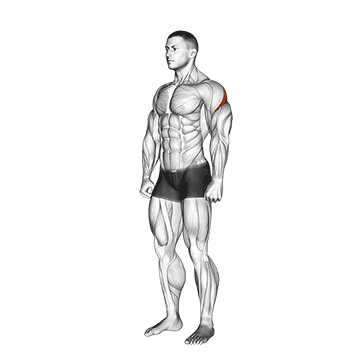
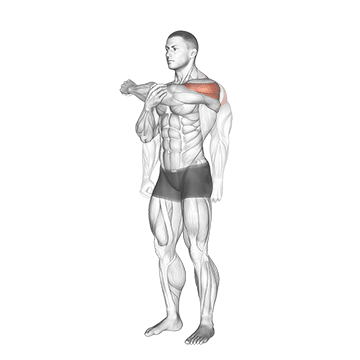
把更新后的动作动图统一回同一套肌肉解剖图。
毛巾划船、农夫走、靠墙斜板和股四头拉伸补上同源 GIF；拉伸封面改用中间帧，避免片头站姿看起来像错图。

diff --git a/app.js b/app.js
@@ -876,7 +876,7 @@ var bodyweightMoves = [
   { id:'0710', name:'侧卧髋外展', area:'臀中肌', sideMode:'half', equipment:'', steps:['侧卧，身体和下侧腿稳定','上侧腿伸直，脚尖朝正前方','小幅抬起，停一下，再控制放下'], cue:'先做右侧，过半换左侧；骨盆不要向后翻。呼吸：抬腿时呼气，放下时吸气。', mistake:'常见错误：腿抬太高、脚尖转向天花板。' },
   { id:'0659', name:'靠墙俯卧撑', area:'胸肩与上肢推力', sideMode:'none', equipment:'', steps:['面对墙站立，双手略宽于肩','身体保持一条直线，屈肘靠近墙','手掌推墙，回到起始位'], cue:'脚离墙越远越难；先选能稳定控制的位置。呼吸：推墙时呼气，靠近时吸气。', mistake:'常见错误：只移动头部，或塌腰、耸肩。' },
   { id:'1373', name:'扶墙提踵', area:'小腿与踝稳定', sideMode:'none', equipment:'', steps:['双脚平行，轻扶稳定物体','脚跟垂直上提，重心保持在大脚趾根部附近','停一下，再慢慢落地'], cue:'保持脚踝正直；急性足趾或踝关节红肿热痛时不要做。呼吸：上提时呼气，落地时吸气。', mistake:'常见错误：脚踝向外翻，靠弹跳完成。' },
-  { id:'3239', name:'跪姿平板（可点肩）', area:'核心与肩稳定', sideMode:'alternate', equipment:'', steps:['膝盖着地、前臂撑地，头到膝保持直线','先稳住跪姿平板，能说话、不塌腰','稳了再轻点对侧肩；一晃就停在平板'], cue:'示范图是脚尖撑地的完整平板，请先跪着做。点肩会晃就只撑住。呼吸：不要憋气。', mistake:'常见错误：一上来跟图做完整平板、塌腰，或猛地点肩扭腰。' }
+  { id:'3239', name:'跪姿平板（可点肩）', area:'核心与肩稳定', sideMode:'alternate', equipment:'', steps:['膝盖着地、前臂撑地，头到膝保持直线','先稳住跪姿平板，能说话、不塌腰','稳了再轻点对侧肩；一晃就停在平板'], cue:'图是跪姿平板点肩。先撑住、能说话、不塌腰，稳了再轻点对侧肩；一晃就只撑住。呼吸：不要憋气。', mistake:'常见错误：塌腰，或猛地点肩扭腰。' }
 ];
 var dumbbellMoves = [
   { id:'0291', name:'扶凳箱式深蹲', area:'大腿前侧与臀部', sideMode:'none', equipment:'哑铃', steps:['身后放一把稳固的椅子，双脚与髋同宽，哑铃垂于体侧（先徒手亦可）','臀部向后坐，像要坐进椅子里，膝盖朝脚尖方向','轻触椅面后脚跟推地站起，顶端夹臀'], cue:'椅子越高越简单；下蹲幅度以膝盖无锐痛为准，全程背部中立。先徒手练熟再加哑铃。呼吸：下坐时吸气，站起时呼气。', mistake:'常见错误：膝盖内扣、脚跟离地，或下坐时塌腰、上身过度前倾。' },
@@ -943,32 +943,32 @@ var birdDogMove = {
   mistake:'常见错误：抬得过高、腰部旋转，或为了跟图而超出自己幅度。', level:'可选进阶'
 };
 var wallPlankMove = Object.assign({}, bodyweightMoves.filter(function(m){ return m.id === '0659'; })[0], {
-  id:'wall-plank', frames:['generated/wall-plank-anatomy.png'], staticOnly:true, name:'墙面斜板支撑', area:'站姿核心稳定', sideMode:'none',
+  id:'wall-plank', mediaId:'0658', name:'墙面斜板支撑', area:'站姿核心稳定', sideMode:'none',
   primary:'腹横肌、腹直肌', secondary:'腹斜肌、肩胛稳定肌',
   benefit:'练习抵抗塌腰，帮助站立和搬拿时保持躯干稳定。',
   steps:['面对墙站立，双手撑墙略宽于肩','双脚向后小步移动，让身体成一直线','轻轻收紧腹部，保持呼吸，时间到后走近墙面'],
-  cue:'墙越近越轻松；全程能说短句、不憋气。若肩痛，缩短距离。',
+  cue:'图是靠墙俯卧撑的轨迹；本课只撑在中间，不推起。墙越近越轻松，全程能说短句。若肩痛，走近一点。',
   mistake:'常见错误：塌腰、耸肩或屏住呼吸。', level:'起步'
 });
 var farmerCarryMove = {
-  id:'farmer-carry', frames:['generated/farmer-carry-anatomy.png'], staticOnly:true,
+  id:'farmer-carry', mediaId:'2133',
   name:'轻负重行走 / 原地持重', area:'站姿核心与全身稳定', sideMode:'none',
   equipment:'两只同重量轻哑铃或水瓶',
   primary:'腹壁稳定肌、竖脊肌', secondary:'前臂、斜方肌、臀中肌',
   benefit:'练习行走、提物时维持直立躯干和稳定呼吸。',
   steps:['选两只同重量轻物，先确认握得住且地面没有障碍','站高，肋骨和骨盆保持自然叠放，双手垂在体侧','空间安全就慢走；空间不足则原地交替抬脚，始终能说短句'],
-  cue:'重量宁轻勿重；肩膀放松，不侧弯、不憋气。脚下不稳或头晕时立即放下。',
+  cue:'图是双手持铃慢走。重量宁轻勿重；空间不够就原地踏步。肩膀放松，不侧弯、不憋气。',
   mistake:'常见错误：为了追求重量而耸肩、身体侧弯，或在狭窄空间勉强行走。',
   level:'起步·轻负重'
 };
 var towelRowMove = {
-  id:'towel-row', noMedia:true,
+  id:'towel-row', mediaId:'3165',
   name:'毛巾划船', area:'背部与上肢拉力', sideMode:'none',
   equipment:'长毛巾，或稳固桌沿',
   primary:'背阔肌、菱形肌', secondary:'肱二头肌、后三角肌',
   benefit:'补上肢拉力，改善含胸。',
   steps:['坐在稳固椅子上，毛巾从脚底绕过，两手各抓一头；或坐地拉住无法移动的桌沿','背部中立，肘贴身体把毛巾/桌沿拉向腰侧','停一下，再慢慢放回'],
-  cue:'没有拉力带就用毛巾。拉的是背，不是耸肩甩胳膊。呼吸：拉回时呼气，放回时吸气。',
+  cue:'图是站着拉毛巾；家里也可坐着把毛巾绕过脚底拉。拉的是背，不要耸肩。呼吸：拉回时呼气，放回时吸气。',
   mistake:'常见错误：弓背、耸肩，或靠后仰借力。', level:'起步'
 };
 var coreMoves = [wallPlankMove, chairStandMove, farmerCarryMove, birdDogMove, bodyweightMoves[1]];
@@ -1000,12 +1000,12 @@ var warmupMoves = [
 var STRETCH = {
   '1377':{ name:'扶墙小腿拉伸', sec:28, target:'小腿', position:'站姿·扶墙', cue:'双手扶墙，一腿在前一腿在后，后脚跟贴地、膝伸直，身体前倾直到小腿后侧有拉伸感，换腿。' },
   '1576':{ name:'仰卧抬腿拉伸', sec:28, target:'大腿后侧', position:'仰卧', cue:'平躺，一腿伸直放地，另一腿抬起、双手抱大腿后侧往胸口靠，膝可微屈，换腿。' },
-  'quad-stand':{ name:'扶墙股四头拉伸', sec:28, target:'大腿前侧', position:'站姿·扶墙', noMedia:true, cue:'单手扶墙或扶椅站稳，另一手抓同侧脚背拉向臀部，双膝并拢、骨盆别前倾；抓不到脚就用毛巾套住脚背，换边。' },
-  '1271':{ name:'胸前侧拉伸', sec:28, target:'胸 / 肩前侧', position:'站姿', noMedia:true, cue:'双手在身后交握（够不到就握毛巾），挺胸、肩向后向下沉，感受胸前打开。' },
-  '0643':{ name:'过头三头拉伸', sec:28, target:'上臂后侧', position:'站姿', noMedia:true, cue:'一臂上举屈肘、手摸背，另一手轻压肘尖；肋骨别外翻，换边。' },
-  '0794':{ name:'站姿侧拉伸', sec:28, target:'侧腰 / 背阔', position:'站姿', noMedia:true, cue:'一臂上举，身体向对侧轻弯，感受侧腰到背的拉伸，换边。' },
-  '1365':{ name:'上背拉伸', sec:28, target:'上背', position:'站姿', noMedia:true, cue:'双手在胸前交握向前推、含胸，把上背撑开；或一臂横抱胸前轻压。' },
-  '0669':{ name:'肩后拉伸', sec:28, target:'肩后侧', position:'站姿', noMedia:true, cue:'一臂横过胸前，另一手轻压肘部靠近身体，肩别耸起，换边。' },
+  'quad-stand':{ name:'扶墙股四头拉伸', sec:28, target:'大腿前侧', position:'站姿·扶墙', mediaId:'1512', cue:'图是跪姿拉脚背；跪不稳就扶墙站着，一手抓同侧脚背拉向臀部，双膝并拢。抓不到就用毛巾套住脚背，换边。' },
+  '1271':{ name:'胸前侧拉伸', sec:28, target:'胸 / 肩前侧', position:'站姿', cue:'图里用短杠举到脑后；家里双手在身后交握或握毛巾即可，挺胸、肩向后向下沉。' },
+  '0643':{ name:'过头三头拉伸', sec:28, target:'上臂后侧', position:'站姿', cue:'一臂上举屈肘、手摸背，另一手轻压肘尖；肋骨别外翻，换边。' },
+  '0794':{ name:'站姿侧拉伸', sec:28, target:'侧腰 / 背阔', position:'站姿', cue:'一臂上举，身体向对侧轻弯，感受侧腰到背的拉伸，换边。' },
+  '1365':{ name:'上背拉伸', sec:28, target:'上背', position:'站姿', cue:'双手在胸前交握向前推、含胸，把上背撑开；或一臂横抱胸前轻压。' },
+  '0669':{ name:'肩后拉伸', sec:28, target:'肩后侧', position:'站姿', cue:'一臂横过胸前，另一手轻压肘部靠近身体，肩别耸起，换边。' },
   '1424':{ name:'坐姿臀部拉伸', sec:28, target:'臀部', position:'坐姿', cue:'坐稳，一脚踝放到另一膝上成“4”字，挺胸轻轻前倾，感受臀部拉伸，换边。' },
   '1403':{ name:'颈侧拉伸', sec:28, target:'颈侧', position:'站姿', cue:'头轻偏向一侧，对侧手可轻扶头，肩放松下沉，不要用力掰，换边。' }
 };

diff --git a/sw.js b/sw.js
@@ -1,6 +1,6 @@
 // 轻打卡 · Service Worker（离线可用 / 安装到主屏幕）
 // 仅在被通过 https:// 或 http://localhost 访问时生效；file:// 打开时浏览器不会注册 SW。
-var VERSION = 'v38-first';
+var VERSION = 'v39-gifs';
 var CACHE_PREFIX = 'workbuddy:' + encodeURIComponent(self.registration.scope) + ':';
 var SHELL = CACHE_PREFIX + 'shell-' + VERSION;
 var RUNTIME = CACHE_PREFIX + 'runtime-' + VERSION;
